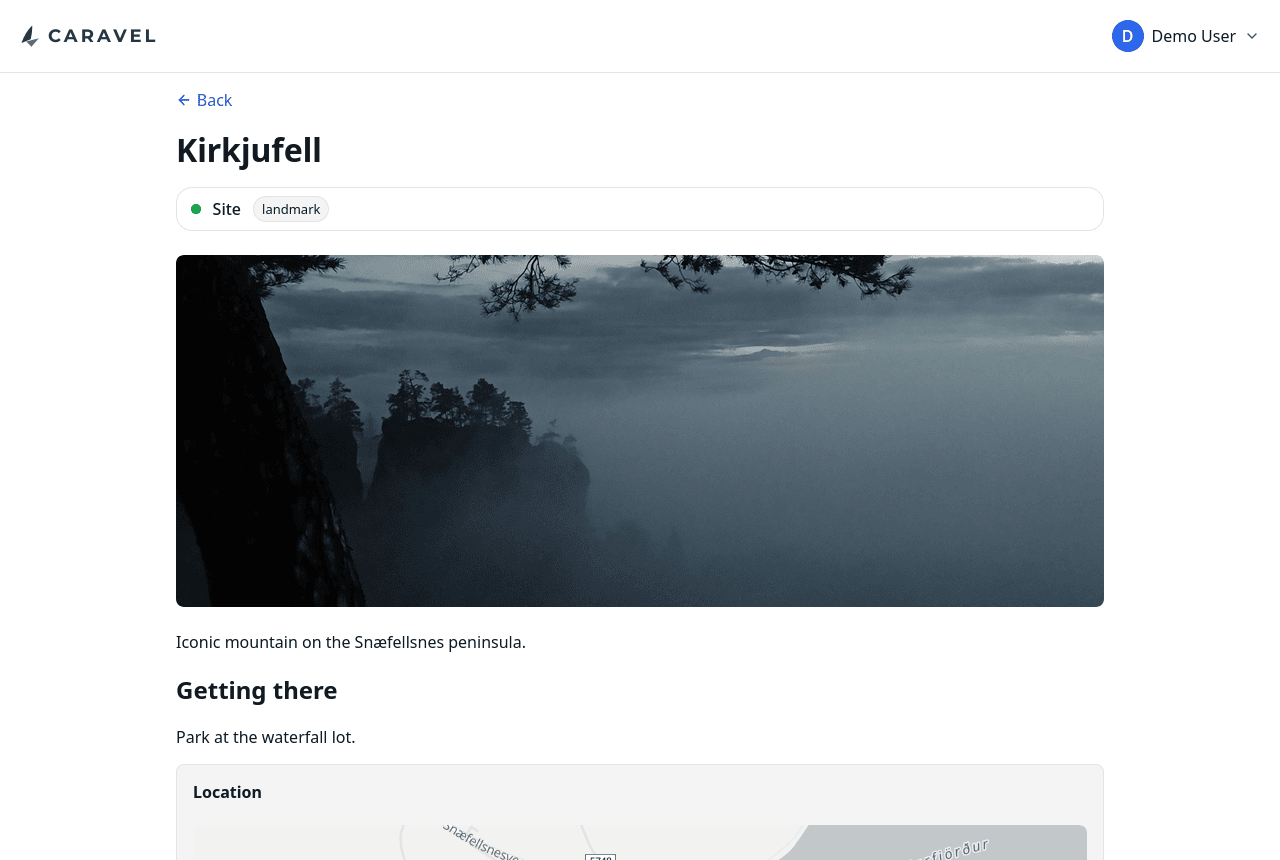
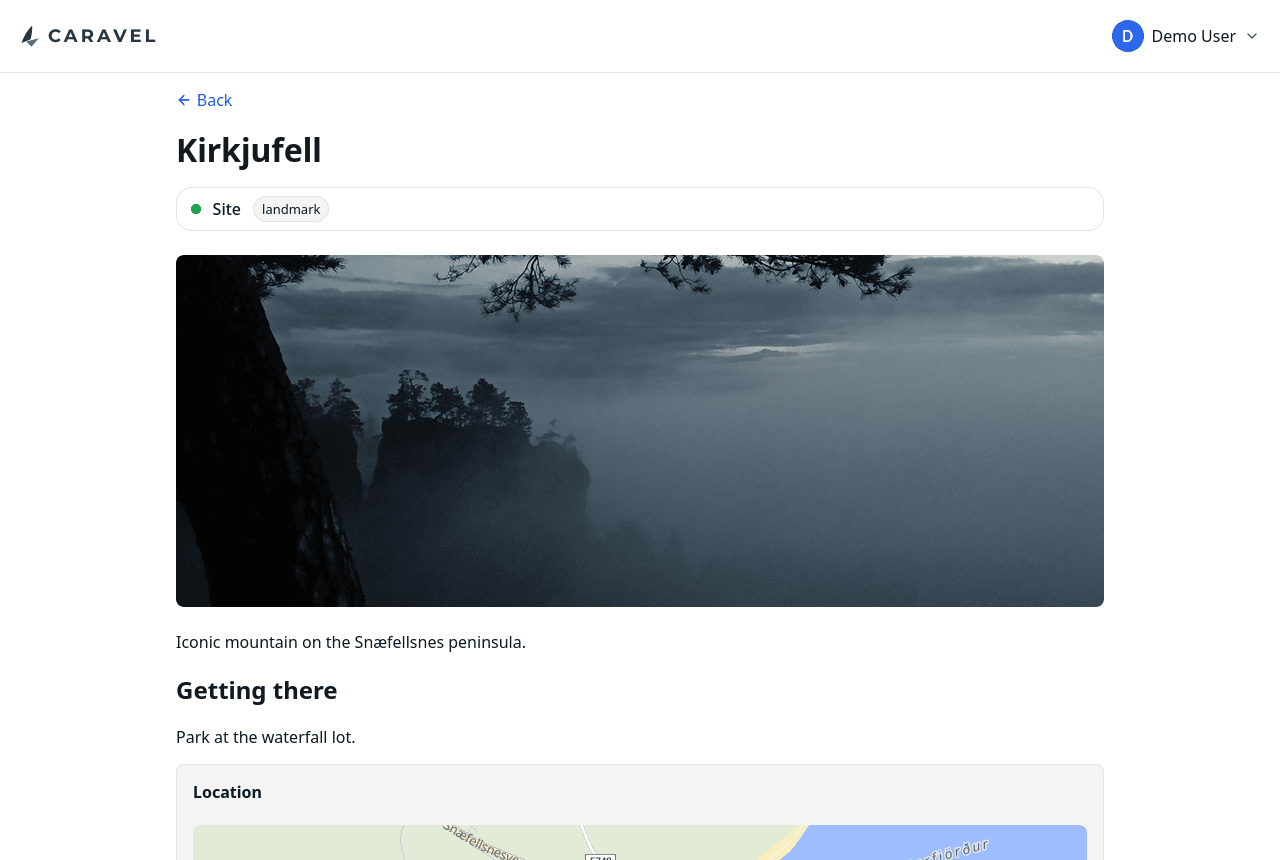
Stage 30 follow-up: a basemap you can actually read
Reported after the stage landed -- the contrast is low in both map modes -- and
the cause turned out to be a category error rather than a bad colour choice.
Positron and dark-matter are *overlay* basemaps, deliberately desaturated so
that data drawn on top of them stands out. Caravel was using them as maps in
their own right.

Measured against each style's own land colour, positron drew forests and parks
as neutral grey at dE 3.8-7.0 with landcover_wood only from zoom 10 up, so at
trip-planning zooms there was no green anywhere; buildings at dE 3.3; roads at
1.08-1.32:1. That was the reported half.

The unreported half is worse: the dark style failed WCAG AA for text. Place
names were rgb(101,101,101) on rgb(12,12,12), which is 3.36:1 against a
threshold of 4.5, and road names were 2.37:1. Water sat at dE 6.7 from land, so
a coastline did not read, and water labels were black text with a dark grey
halo -- invisible at any contrast. That makes it a bug rather than a
preference.

Light: liberty replaces positron. Same project, full detail -- parks and
forests green, water blue at dE 43 rather than 16, buildings dE 9.6 with 3D
extrusion above zoom 14, a readable road hierarchy, labels no worse (every real
label layer at or above 5.25:1). No code change needed: it references only
tiles.openfreemap.org, and 20 of its 23 label layers localise with the
remaining 3 being exactly the ["to-string",["get","ref"]] road shields
readsAName() already protects.
[…]

Changed region(s): [[0.125, 0.9372, 0.875, 1.0]]

diff --git a/web/js/components/map-view.js b/web/js/components/map-view.js
@@ -16,7 +16,7 @@ import { resolveMapTheme } from "../map-theme.js";
 // resolves them -- including repeating the light one when an operator named no
 // dark counterpart -- so there is no naming convention guessed at here.
 const DEFAULT_MAP_CONFIG = {
-  style_url: "/js/vendor/map-styles/positron.json",
+  style_url: "/js/vendor/map-styles/liberty.json",
   dark_style_url: "/js/vendor/map-styles/dark.json",
 };
 
@@ -260,11 +260,19 @@ const styles = `
 
      Two sets rather than one, because a colour chosen to read on near-white
      paper does not read on near-black. Measured against each cartography's own
-     background (positron rgb(242,243,240), dark rgb(12,12,12)): the light
-     values sit between 3.1:1 and 5.5:1 there, but "stay" and "transport" fall
-     to 3.4:1 and 3.8:1 on the dark map - above the 3:1 floor for a graphical
-     object, and visibly dimmer than their neighbours. The dark set is the same
-     hues two steps lighter, which puts all six between 7:1 and 11:1.
+     background (liberty rgb(248,244,240), dark rgb(12,12,12)): the light
+     values sit between 3.0:1 and 5.2:1 there, but "stay" and "transport" fall
+     to 3.4:1 and 3.8:1 on the unmodified dark map - above the 3:1 floor for a
+     graphical object, and visibly dimmer than their neighbours. The dark set
+     is the same hues two steps lighter, which puts all six between 7:1 and
+     11:1.
+
+     Re-checked against liberty when it replaced positron as the light style.
+     Its land is busier -- green parks, blue water -- so the tightest pairing
+     is now a green "site" pin over a park (2.6:1) or a blue "transport" pin
+     over water (2.8:1). Both stay legible because of the ring below rather
+     than the fill: perceptually they are 58 and 55 dE apart, which is not a
+     near miss. The ring is what does the work, and always was.
 
      The legend dots use these too. They sit on app chrome rather than on the
      map, so they could have followed the app's theme instead - but a legend

diff --git a/tests/ui/map-theme.spec.js b/tests/ui/map-theme.spec.js
@@ -17,8 +17,13 @@ const MOBILE = { width: 324, height: 756 };
 
 // The two vendored cartographies, by the one thing that tells them apart
 // without fetching anything: their background layer.
-const LIGHT_BG = "rgb(242,243,240)";
-const DARK_BG = "rgb(12,12,12)";
+//
+// Compared as parsed colours rather than as strings, because the two styles
+// write theirs differently -- liberty uses "#f8f4f0" and dark uses
+// "rgb(12,12,12)" -- and a string comparison would break on a restyle that
+// changed nothing but the notation.
+const LIGHT_BG = [248, 244, 240];
+const DARK_BG = [12, 12, 12];
 
 async function gotoTripMap(page) {
   const routes = await buildRoutes(page);
@@ -45,11 +50,20 @@ const mapState = (page) =>
     // helper throws instead of returning "not yet", which showed up only under
     // a full parallel run, where the window is wide enough to land in.
     const bg = host._map.getStyle()?.layers?.find((l) => l.type === "background");
+    // "#f8f4f0" or "rgb(12,12,12)" -> [r,g,b], so the assertion does not care
+    // which notation a style happens to use.
+    const rgb = (v) => {
+      if (typeof v !== "string") return null;
+      const hex = v.match(/^#([0-9a-f]{6})$/i);
+      if (hex) return [0, 2, 4].map((i) => parseInt(hex[1].slice(i, i + 2), 16));
+      const fn = v.match(/(\d+)\s*[ ,]\s*(\d+)\s*[ ,]\s*(\d+)/);
+      return fn ? [Number(fn[1]), Number(fn[2]), Number(fn[3])] : null;
+    };
     const marker = host.shadowRoot.querySelector(".maplibregl-marker");
     const centre = host._map.getCenter();
     return {
       scheme: host.dataset.scheme,
-      background: bg?.paint?.["background-color"] ?? null,
+      background: rgb(bg?.paint?.["background-color"]),
       markerColor: marker ? getComputedStyle(marker).backgroundColor : null,
       legendDot: (() => {
         const d = host.shadowRoot.querySelector(".legend .dot");

diff --git a/tests/ui/map.spec.js b/tests/ui/map.spec.js
@@ -1760,8 +1760,8 @@ test.describe("map labels follow the reader's language", () => {
     await gotoTripMap(page);
     const { untouched } = await labelChains(page);
 
-    // The trap in "rewrite every text-field layer": three layers in positron
-    // are motorway shields, whose text is ["to-string", ["get","ref"]]. A
+    // The trap in "rewrite every text-field layer": three layers in the light
+    // style are motorway shields, whose text is ["to-string", ["get","ref"]]. A
     // shield reads "A1" - not a name, with no translation - so localising it
     // would blank every shield on the map. They must be left exactly as they
     // came.

diff --git a/internal/httpapi/map.go b/internal/httpapi/map.go
@@ -26,7 +26,7 @@ import (
 // Two URLs because light and dark are a per-browser preference
 // (web/js/map-theme.js), so an instance has to be able to answer both.
 const (
-	DefaultMapStyleURL     = "/js/vendor/map-styles/positron.json"
+	DefaultMapStyleURL     = "/js/vendor/map-styles/liberty.json"
 	DefaultMapStyleDarkURL = "/js/vendor/map-styles/dark.json"
 )
 

diff --git a/plans/stage-30.md b/plans/stage-30.md
@@ -790,6 +790,88 @@ their own WCAG threshold, worst 3.59:1 on an unrelated brand link.
 
 ---
 
+## Follow-up: a basemap you can actually read
+
+*Not planned. Raised after the stage landed -- "the contrast is rather low in
+both light and dark map mode" -- and the complaint was right in a way worth
+recording, because the cause was a category error rather than a bad colour
+choice.*
+
+**Positron and dark-matter are *overlay* basemaps.** They are deliberately
+desaturated so that data drawn on top of them stands out. Caravel was using
+them as maps in their own right, which is not what they are for. Measured
+against each style's own land colour:
+
+| | positron | dark |
+|---|---|---|
+| water vs land | dE 15.8 | **dE 6.7** |
+| place labels | 11-18.9:1 | **3.36:1** |
+| road labels | 5.16:1 | **2.37:1** |
+| forest / park | dE 3.8-7.0, grey | dE 1.2, grey |
+| buildings | dE 3.3 | 1.01:1, *darker* than land |
+| roads | 1.08-1.32:1 | 1.10-1.77:1 |
+
+Two separate faults fell out of that. The reported one was the light map's
+geography: forests and parks drawn as neutral grey rather than green, and
+`landcover_wood` only from zoom 10 up, so at trip-planning zooms there was no
+green anywhere. The one nobody had reported is that **the dark style failed
+WCAG AA for text** -- 3.36:1 place names against a 4.5 threshold, 2.37:1 road
+names -- which makes it a bug rather than a preference.
+
+**Light: liberty replaces positron.** The full-detail style from the same
+project. Parks and forests green, water blue (dE 43 rather than 16), buildings
+dE 9.6 with 3D extrusion above zoom 14, a readable road hierarchy, and labels
+no worse (every real label layer at or above 5.25:1). It dropped in with no
+code change: it references only `tiles.openfreemap.org`, and 20 of its 23 label
+layers localise with the remaining 3 being exactly the
+`["to-string",["get","ref"]]` road shields `readsAName()` already protects.
+
+**`bright` was the other candidate and lost on measurement.** Its forest green
+looks decisive in the style JSON -- `#6a4`, dE 67.6 raw -- but it is drawn at
+**0.1 alpha**, which composites to dE 6.8: no better than positron. Its
+buildings composite to dE 4.1. This corrected a number given during the
+investigation, where the first pass had ignored opacity throughout; the
+landcover figures above are all composited.
+
+**Dark: the vendored style is patched**, because it is the only dark style
+OpenFreeMap serves and there is no liberty-equivalent. 32 layers, substituted
+per layer rather than by a blanket transform -- the same literal means
+different things in different places, since `rgb(27,27,29)` is water in one
+layer and a footpath in another. Labels to 7.75:1 (roads 5.67:1, all 13 label
+layers now passing AA), water to dE 20 and blue, forest to dE 18 and green,
+buildings to dE 8.9 and *lighter* than the land they stand on, road casings to
+3.56:1. Water labels were black text with a dark grey halo -- invisible at any
+contrast -- and are now on-colour with a dark blue halo.
+
+**The trade-off taken deliberately:** liberty-light and dark-matter-dark are
+different cartographic families, colourful against monochrome. The alternative
+was deriving a dark variant from liberty, which means hand-tuning 111 layers
+and owning that cartography permanently. A reader picks one mode and never sees
+them side by side, and flatter dark maps are the convention.
+
+**One consequence worth stating:** `dark.json` is no longer byte-identical to
+upstream, which the vendor README previously promised for both styles. It now
+records the upstream hash, the committed hash, a table of what changed and why,
+and the warning that re-vendoring drops the patch. Liberty can be refetched
+freely.
+
+Marker colours were re-checked rather than assumed. Liberty's land is busier,
+so the tightest pairings are now a green "site" pin over a park (2.6:1) and a
+blue "transport" pin over water (2.8:1) -- but at 58 and 55 dE those are not
+near misses, and the white ring under each pin is what does the separating, as
+it always was. No palette change needed.
+
+**Verified.** `make ci`, `make docs` (`--strict`), `make check-screenshots` and
+`make check-env` green; `make test-ui` at 221 passed with only the two
+documented distance-filter flakes; `make check-contrast` at 690 elements, all
+above their own threshold, in both schemes. All fifteen documentation
+screenshots regenerated. By hand against a live `make dev` at zoom 13 over
+Reykjavik, in both modes: buildings, parks, water and the road hierarchy all
+legible, markers clearly on top, no console errors. The `map-theme.spec.js`
+background assertion now compares parsed colours rather than strings, since
+liberty writes `#f8f4f0` where dark writes `rgb(12,12,12)` and a string
+comparison would have broken on notation alone.
+
 ## Build order
 
 1 → 2 is hard (2 needs the vendored files). 3 introduces `_applyOverlays()`

diff --git a/docs/configuration/server.md b/docs/configuration/server.md
@@ -14,7 +14,7 @@ change when the defaults do not fit.
 | `CARAVEL_UPLOAD_DIR` | `uploads` | Where uploaded images and documents are stored |
 | `CARAVEL_WEB_DIR` | *(unset)* | Serve the frontend live from this directory instead of the copy embedded in the binary. A development setting — see `make dev` |
 | `CARAVEL_GEOCODER_URL` | OpenStreetMap Nominatim | Address-search endpoint — see [Address search](address-search.md) |
-| `CARAVEL_MAP_STYLE_URL` | the bundled Positron style | The vector map style the browser draws — see [Map style](map-style.md) |
+| `CARAVEL_MAP_STYLE_URL` | the bundled Liberty style | The vector map style the browser draws — see [Map style](map-style.md) |
 | `CARAVEL_MAP_STYLE_DARK_URL` | the bundled dark style | The same, for readers who chose a dark map |
 | `CARAVEL_TRUSTED_PROXIES` | the private ranges | Networks whose `X-Forwarded-For` is believed when attributing a request to a client address. A comma-separated list of CIDR ranges and addresses; `none` to trust nothing. Replaces the default rather than extending it — see [Behind a reverse proxy](../running/reverse-proxy.md) |
 | `CARAVEL_BASE_URL` | *(unset)* | The public origin the instance is reached under, scheme and host, no path — for example `https://caravel.example`. Used only to build the absolute URLs in the social preview tags. Unset derives it from each request, which is right behind an ordinary reverse proxy; set it if something in front rewrites `Host` |

diff --git a/plans/todo.md b/plans/todo.md
@@ -59,6 +59,18 @@ purpose — do not reconstruct it from an older stage plan without asking.
 
 ## Planned features
 
+- **The dark map is a patched vendored style, and a refetch would drop that.**
+  (Stage 30 follow-up.) `web/js/vendor/map-styles/dark.json` carries 32 colour
+  substitutions, because upstream it failed WCAG AA for text -- 3.36:1 place
+  names -- and drew water at dE 6.7 from land. It is the only dark style
+  OpenFreeMap serves, so there was nothing to switch to. The README records
+  the upstream hash, what changed and the warning, but nothing enforces it: a
+  future re-vendor that forgets would silently reintroduce an accessibility
+  failure. Worth turning into a small script that fetches upstream and applies
+  the substitutions, the way `gen_icon_sprite.py` does for icons, if the style
+  is ever refetched. The alternative is deriving a dark variant from liberty,
+  which means owning 111 layers of cartography.
+
 - **Panning across the terminator does not re-light the map.** (Stage 30
   Milestone 5.) The day/night mode takes its coordinate from a remembered fix
   first and the map's viewport centre only as a fallback, and it re-resolves

diff --git a/docs/configuration/map-style.md b/docs/configuration/map-style.md
@@ -7,7 +7,7 @@ style is served by Caravel itself and the data comes from
 
 | Variable | Default |
 |---|---|
-| `CARAVEL_MAP_STYLE_URL` | `/js/vendor/map-styles/positron.json` |
+| `CARAVEL_MAP_STYLE_URL` | `/js/vendor/map-styles/liberty.json` |
 | `CARAVEL_MAP_STYLE_DARK_URL` | `/js/vendor/map-styles/dark.json` |
 
 Both accept an absolute path or an `http(s)` URL; anything else stops the
@@ -61,7 +61,7 @@ OpenMapTiles schema from a downloaded extract.
 Point the style at your own server and the rest of Caravel is unchanged:
 
 ```sh
-CARAVEL_MAP_STYLE_URL='https://tiles.example.org/styles/positron.json'
+CARAVEL_MAP_STYLE_URL='https://tiles.example.org/styles/liberty.json'
 CARAVEL_MAP_STYLE_DARK_URL='https://tiles.example.org/styles/dark.json'
 ```
 
